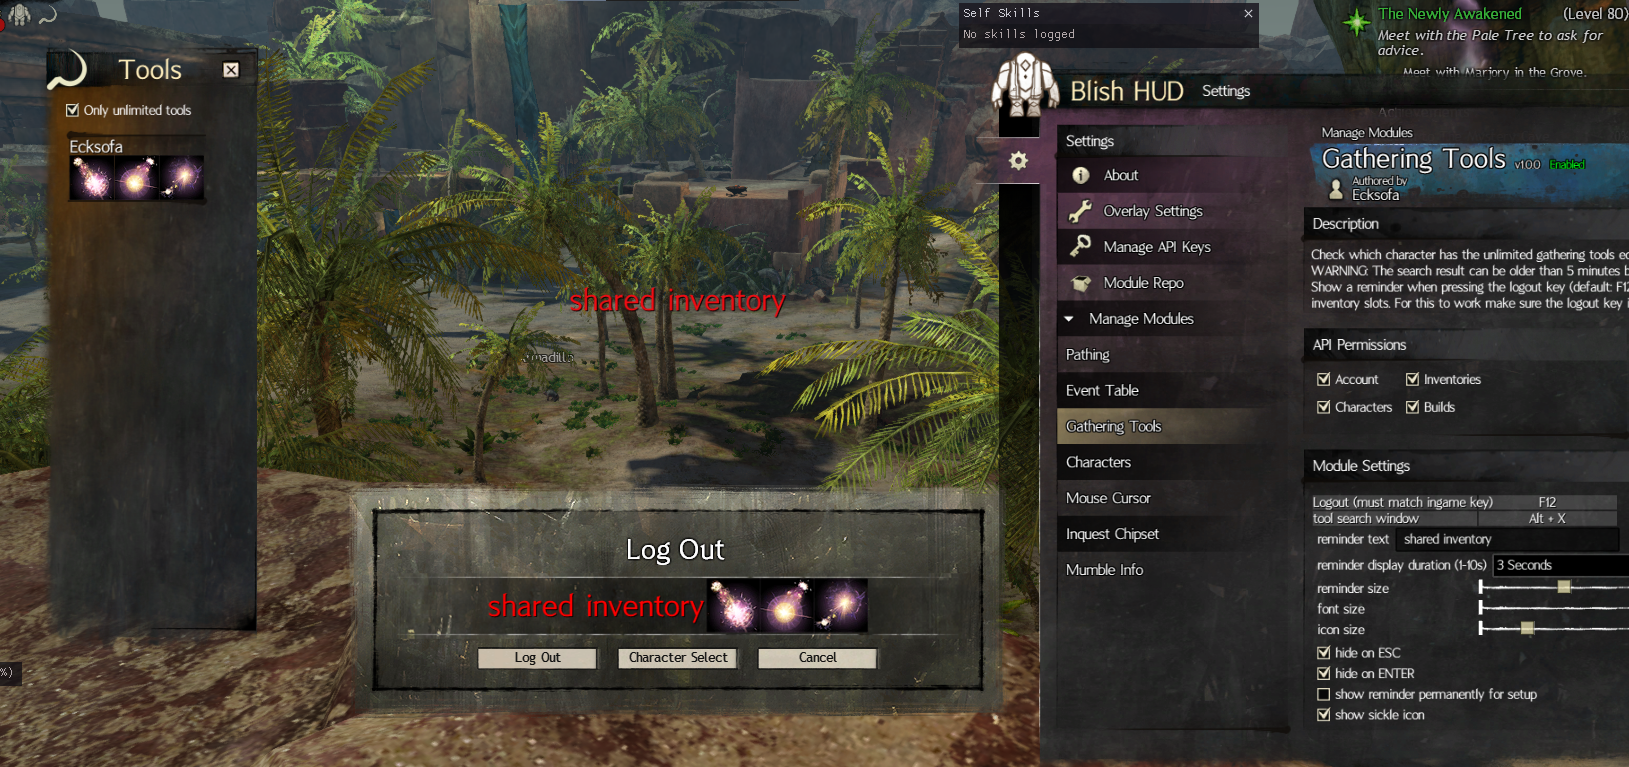
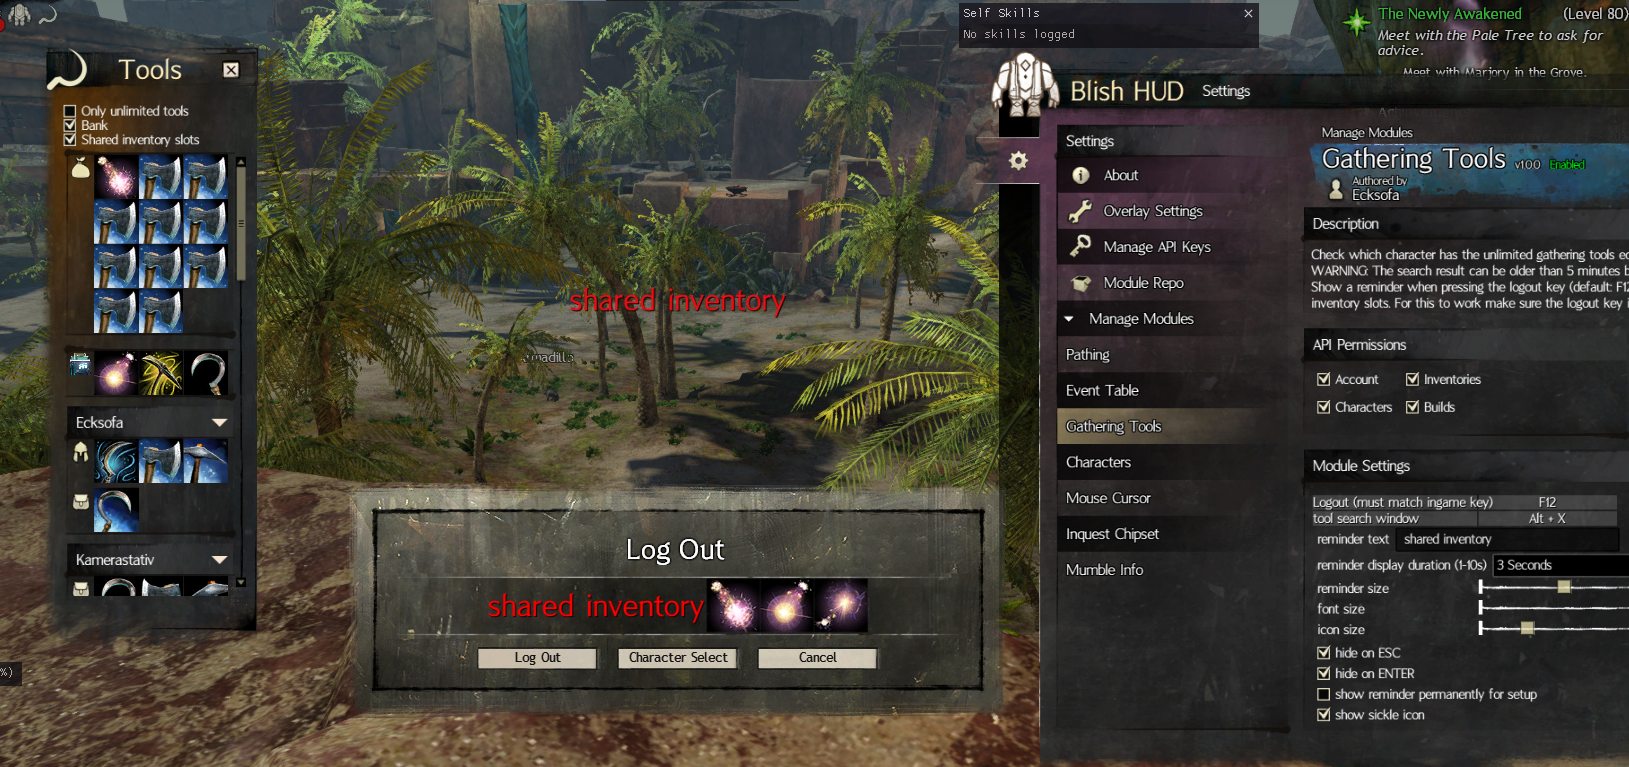
readme: update text and screenshot

Changed region(s): [[0.0307, 0.1199, 0.1535, 0.7797]]

diff --git a/README.md b/README.md
@@ -1,5 +1,8 @@
 - A Module for the third party overlay https://blishhud.com/ for Guild Wars 2.
-- It allows searching for characters that have unlimited gathering tools equipped.
-- It shows a reminder when the logout dialog is opened via the logout key.
+- Search for (unlimited) gathering tools in your bank, shared inventory slots, character inventories or which character has which gathering tools equipped.
+- WARNING: The search result can be older than 5 minutes because of API delays.
+- It cannot show how many uses a limited gathering tool has left because the API does not offer this information.
+- Show a reminder when pressing the logout key (default: F12) to not forget putting unlimited tools into shared inventory slots. For this to work make sure the logout key in the module settings matches the logout key in Guild Wars 2.",
+
 
 ![Screenshot](docs/gatheringTools_ingame_screenshot.png)
